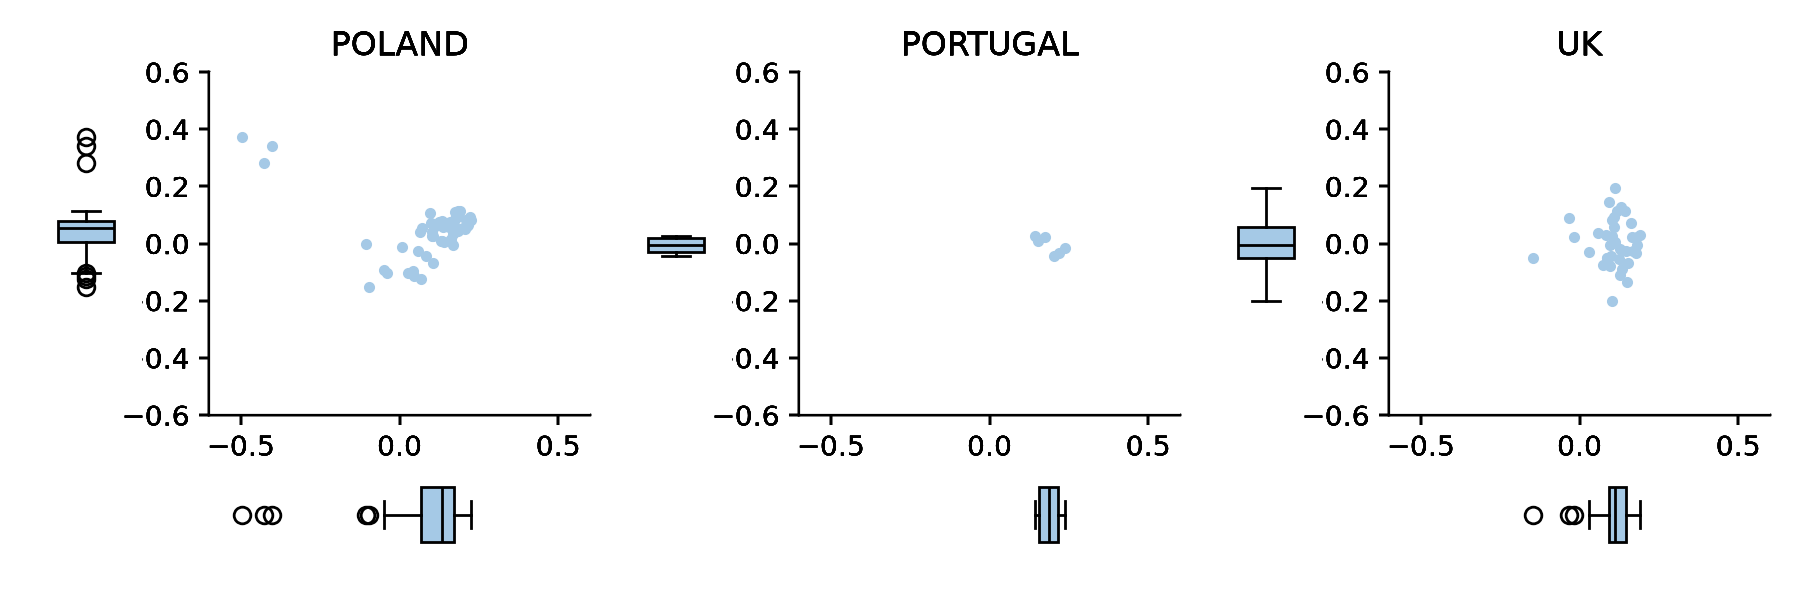
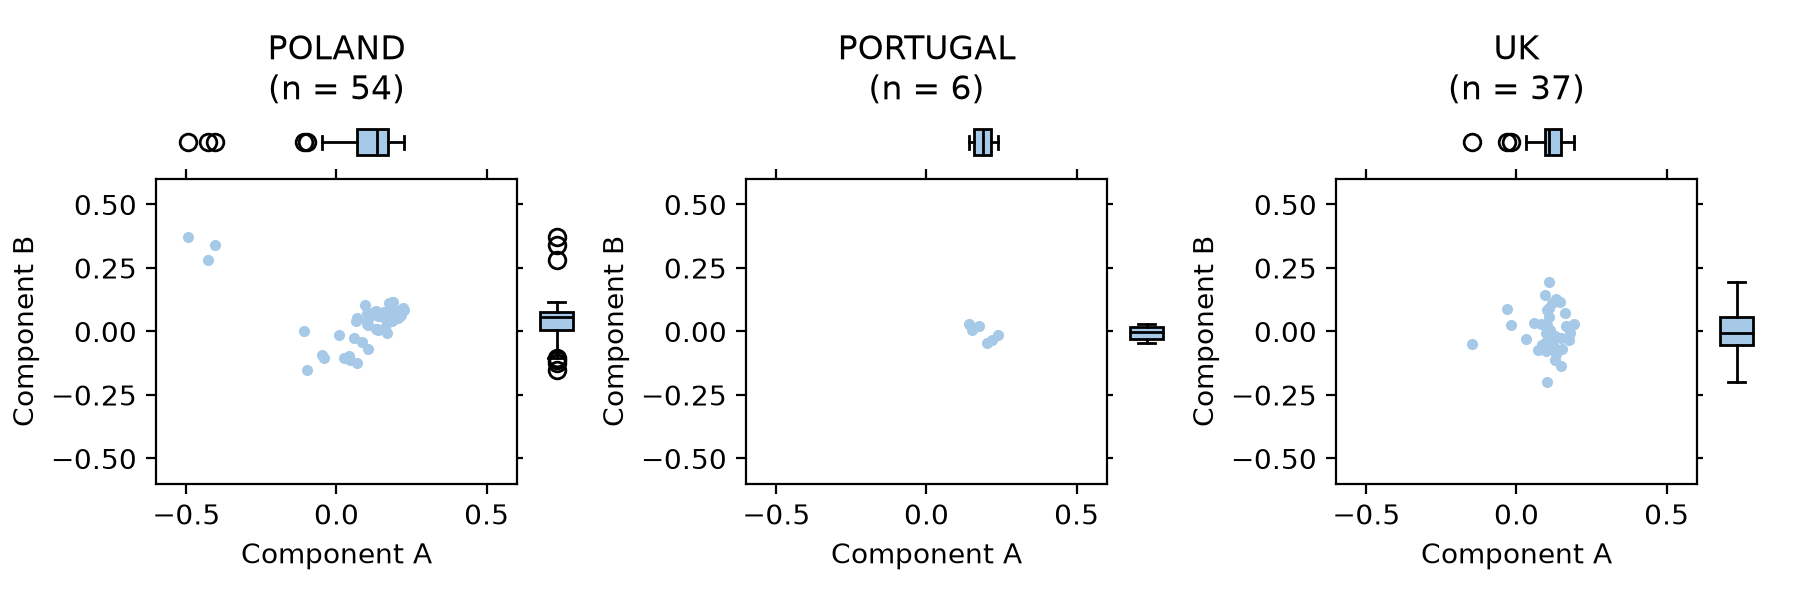
TODO: compute tests. Graphs more or less ready.

diff --git a/scripts/food_chapter_analyze_embeddings_spread.py b/scripts/food_chapter_analyze_embeddings_spread.py
@@ -17,6 +17,75 @@ COLORS = {"yellow": "#E6B830", "blue": "#A5C9E6", "green": "#73C0C1"}
 
 
 # %%
+## Define functions
+def plot_scatter_with_boxplots(
+    df: pd.DataFrame, color: str = COLORS["yellow"]
+) -> plt.Figure:
+    """Plots a scatter plot with boxplots that show distribution of the variables.
+
+    Parameters
+    ----------
+    df
+        a data frame with Component A and Component B columns.
+    color, optional
+        color of the plots, by default COLORS["yellow"]
+
+    Returns
+    -------
+        a series of three scatter plots with boxplots.
+    """
+    fig = plt.Figure(figsize=(9, 3))
+    outer = gridspec.GridSpec(nrows=1, ncols=3)
+    for n, t in enumerate(df.groupby("country")):
+        country, tmp = t
+        nrows = len(tmp)
+        inner = gridspec.GridSpecFromSubplotSpec(
+            nrows=6, ncols=6, subplot_spec=outer[n], wspace=0.1, hspace=0.2
+        )
+        ax_main = plt.Subplot(fig, inner[1:6, 0:5])
+        ax_main.plot(tmp["Component A"], tmp["Component B"], ".", color=color)
+        ax_main.set_xlim(-0.6, 0.6)
+        ax_main.set_xlabel("Component A")
+        ax_main.set_ylim(-0.6, 0.6)
+        ax_main.set_ylabel("Component B")
+        ax_main.tick_params("x", top=True, labeltop=False)
+        ax_main.tick_params("y", right=True, labelright=False)
+        fig.add_subplot(ax_main)
+
+        ax = plt.Subplot(fig, inner[0, 0:5], sharex=ax_main)
+        ax.set_xlim(-0.6, 0.6)
+        ax.boxplot(
+            tmp["Component A"],
+            patch_artist=True,
+            medianprops=dict(linestyle="-", linewidth=1, color="black"),
+            widths=0.5,
+            boxprops={"facecolor": color},
+            orientation="horizontal",
+        )
+        for spine in ax.spines:
+            ax.spines[spine].set_visible(False)
+        ax.get_xaxis().set_visible(False)
+        ax.get_yaxis().set_visible(False)
+        ax.title.set_text(country.upper() + "\n" + f"(n = {nrows})")
+        fig.add_subplot(ax)
+
+        ax = plt.Subplot(fig, inner[1:6, 5], sharey=ax_main)
+        ax.boxplot(
+            tmp["Component B"],
+            patch_artist=True,
+            medianprops=dict(linestyle="-", linewidth=1, color="black"),
+            widths=0.5,
+            boxprops={"facecolor": color},
+        )
+        for spine in ax.spines:
+            ax.spines[spine].set_visible(False)
+        ax.get_xaxis().set_visible(False)
+        ax.get_yaxis().set_visible(False)
+        fig.add_subplot(ax)
+    return fig
+
+
+# %%
 ## Load data
 df = pd.read_csv(PROC / "food_texts.csv", index_col=None)
 
@@ -48,167 +117,25 @@ df = pd.concat(df_lst)
 ## MOTIVATION
 df_mot = df.query("mot_refl > 0 | mot_auto > 0")
 
-fig = plt.figure(figsize=(9, 3))
-outer = gridspec.GridSpec(nrows=1, ncols=3)
-for n, t in enumerate(df_mot.groupby("country")):
-    country, tmp = t
-    inner = gridspec.GridSpecFromSubplotSpec(
-        nrows=6, ncols=6, subplot_spec=outer[n], wspace=-0.2, hspace=-0.3
-    )
-    for i in range(6):
-        ax_main = plt.Subplot(fig, inner[0:4, 2:6])
-        ax_main.plot(
-            tmp["Component A"], tmp["Component B"], ".", color=COLORS["yellow"]
-        )
-        ax_main.set_xlim(-0.6, 0.6)
-        ax_main.set_ylim(-0.6, 0.6)
-        for spine in ax_main.spines:
-            if spine not in ["left", "bottom"]:
-                ax_main.spines[spine].set_visible(False)
-        fig.add_subplot(ax_main)
-        ax_main.title.set_text(country.upper())
-
-        ax = plt.Subplot(fig, inner[5, 2:6], sharex=ax_main)
-        ax.set_xlim(-0.6, 0.6)
-        ax.boxplot(
-            tmp["Component A"],
-            patch_artist=True,
-            medianprops=dict(linestyle="-", linewidth=1, color="black"),
-            widths=0.5,
-            boxprops={"facecolor": COLORS["yellow"]},
-            orientation="horizontal",
-        )
-        for spine in ax.spines:
-            ax.spines[spine].set_visible(False)
-        ax.get_xaxis().set_visible(False)
-        ax.get_yaxis().set_visible(False)
-        fig.add_subplot(ax)
-
-        ax = plt.Subplot(fig, inner[0:4, 0], sharey=ax_main)
-        ax.boxplot(
-            tmp["Component B"],
-            patch_artist=True,
-            medianprops=dict(linestyle="-", linewidth=1, color="black"),
-            widths=0.5,
-            boxprops={"facecolor": COLORS["yellow"]},
-        )
-        for spine in ax.spines:
-            ax.spines[spine].set_visible(False)
-        ax.get_xaxis().set_visible(False)
-        ax.get_yaxis().set_visible(False)
-        fig.add_subplot(ax)
-
-plt.tight_layout()
-plt.show()
+fig = plot_scatter_with_boxplots(df=df_mot, color=COLORS["yellow"])
+fig.tight_layout()
 fig.savefig(PNG / "motivation_semantic_spread.png", dpi=200)
+fig
 # %%
 ## CAPABILITIES
 df_cap = df.query("cap_psychological > 0 | cap_physical > 0")
 
-fig = plt.figure(figsize=(9, 3))
-outer = gridspec.GridSpec(nrows=1, ncols=3)
-for n, t in enumerate(df_cap.groupby("country")):
-    country, tmp = t
-    inner = gridspec.GridSpecFromSubplotSpec(
-        nrows=6, ncols=6, subplot_spec=outer[n], wspace=-0.2, hspace=-0.3
-    )
-    for i in range(6):
-        ax_main = plt.Subplot(fig, inner[0:4, 2:6])
-        ax_main.plot(tmp["Component A"], tmp["Component B"], ".", color=COLORS["blue"])
-        ax_main.set_xlim(-0.6, 0.6)
-        ax_main.set_ylim(-0.6, 0.6)
-        for spine in ax_main.spines:
-            if spine not in ["left", "bottom"]:
-                ax_main.spines[spine].set_visible(False)
-        fig.add_subplot(ax_main)
-        ax_main.title.set_text(country.upper())
-
-        ax = plt.Subplot(fig, inner[5, 2:6], sharex=ax_main)
-        ax.set_xlim(-0.6, 0.6)
-        ax.boxplot(
-            tmp["Component A"],
-            patch_artist=True,
-            medianprops=dict(linestyle="-", linewidth=1, color="black"),
-            widths=0.5,
-            boxprops={"facecolor": COLORS["blue"]},
-            orientation="horizontal",
-        )
-        for spine in ax.spines:
-            ax.spines[spine].set_visible(False)
-        ax.get_xaxis().set_visible(False)
-        ax.get_yaxis().set_visible(False)
-        fig.add_subplot(ax)
-
-        ax = plt.Subplot(fig, inner[0:4, 0], sharey=ax_main)
-        ax.boxplot(
-            tmp["Component B"],
-            patch_artist=True,
-            medianprops=dict(linestyle="-", linewidth=1, color="black"),
-            widths=0.5,
-            boxprops={"facecolor": COLORS["blue"]},
-        )
-        for spine in ax.spines:
-            ax.spines[spine].set_visible(False)
-        ax.get_xaxis().set_visible(False)
-        ax.get_yaxis().set_visible(False)
-        fig.add_subplot(ax)
-
-plt.tight_layout()
-plt.show()
+fig = plot_scatter_with_boxplots(df=df_cap, color=COLORS["blue"])
+fig.tight_layout()
 fig.savefig(PNG / "capabilities_sematic_spread.png", dpi=200)
+fig
 # %%
 ## OPPORTUNITIES
 df_opp = df.query("opp_physical > 0 | opp_social > 0")
 
-fig = plt.figure(figsize=(9, 3))
-outer = gridspec.GridSpec(nrows=1, ncols=3)
-for n, t in enumerate(df_opp.groupby("country")):
-    country, tmp = t
-    inner = gridspec.GridSpecFromSubplotSpec(
-        nrows=6, ncols=6, subplot_spec=outer[n], wspace=-0.2, hspace=-0.3
-    )
-    for i in range(6):
-        ax_main = plt.Subplot(fig, inner[0:4, 2:6])
-        ax_main.plot(tmp["Component A"], tmp["Component B"], ".", color=COLORS["green"])
-        ax_main.set_xlim(-0.6, 0.6)
-        ax_main.set_ylim(-0.6, 0.6)
-        for spine in ax_main.spines:
-            if spine not in ["left", "bottom"]:
-                ax_main.spines[spine].set_visible(False)
-        fig.add_subplot(ax_main)
-        ax_main.title.set_text(country.upper())
-
-        ax = plt.Subplot(fig, inner[5, 2:6], sharex=ax_main)
-        ax.set_xlim(-0.6, 0.6)
-        ax.boxplot(
-            tmp["Component A"],
-            patch_artist=True,
-            medianprops=dict(linestyle="-", linewidth=1, color="black"),
-            widths=0.5,
-            boxprops={"facecolor": COLORS["green"]},
-            orientation="horizontal",
-        )
-        for spine in ax.spines:
-            ax.spines[spine].set_visible(False)
-        ax.get_xaxis().set_visible(False)
-        ax.get_yaxis().set_visible(False)
-        fig.add_subplot(ax)
-
-        ax = plt.Subplot(fig, inner[0:4, 0], sharey=ax_main)
-        ax.boxplot(
-            tmp["Component B"],
-            patch_artist=True,
-            medianprops=dict(linestyle="-", linewidth=1, color="black"),
-            widths=0.5,
-            boxprops={"facecolor": COLORS["green"]},
-        )
-        for spine in ax.spines:
-            ax.spines[spine].set_visible(False)
-        ax.get_xaxis().set_visible(False)
-        ax.get_yaxis().set_visible(False)
-        fig.add_subplot(ax)
-
-plt.tight_layout()
-plt.show()
+fig = plot_scatter_with_boxplots(df=df_opp, color=COLORS["green"])
+fig.tight_layout()
 fig.savefig(PNG / "opportunities_semantic_spread.png", dpi=200)
+fig
+
 # %%